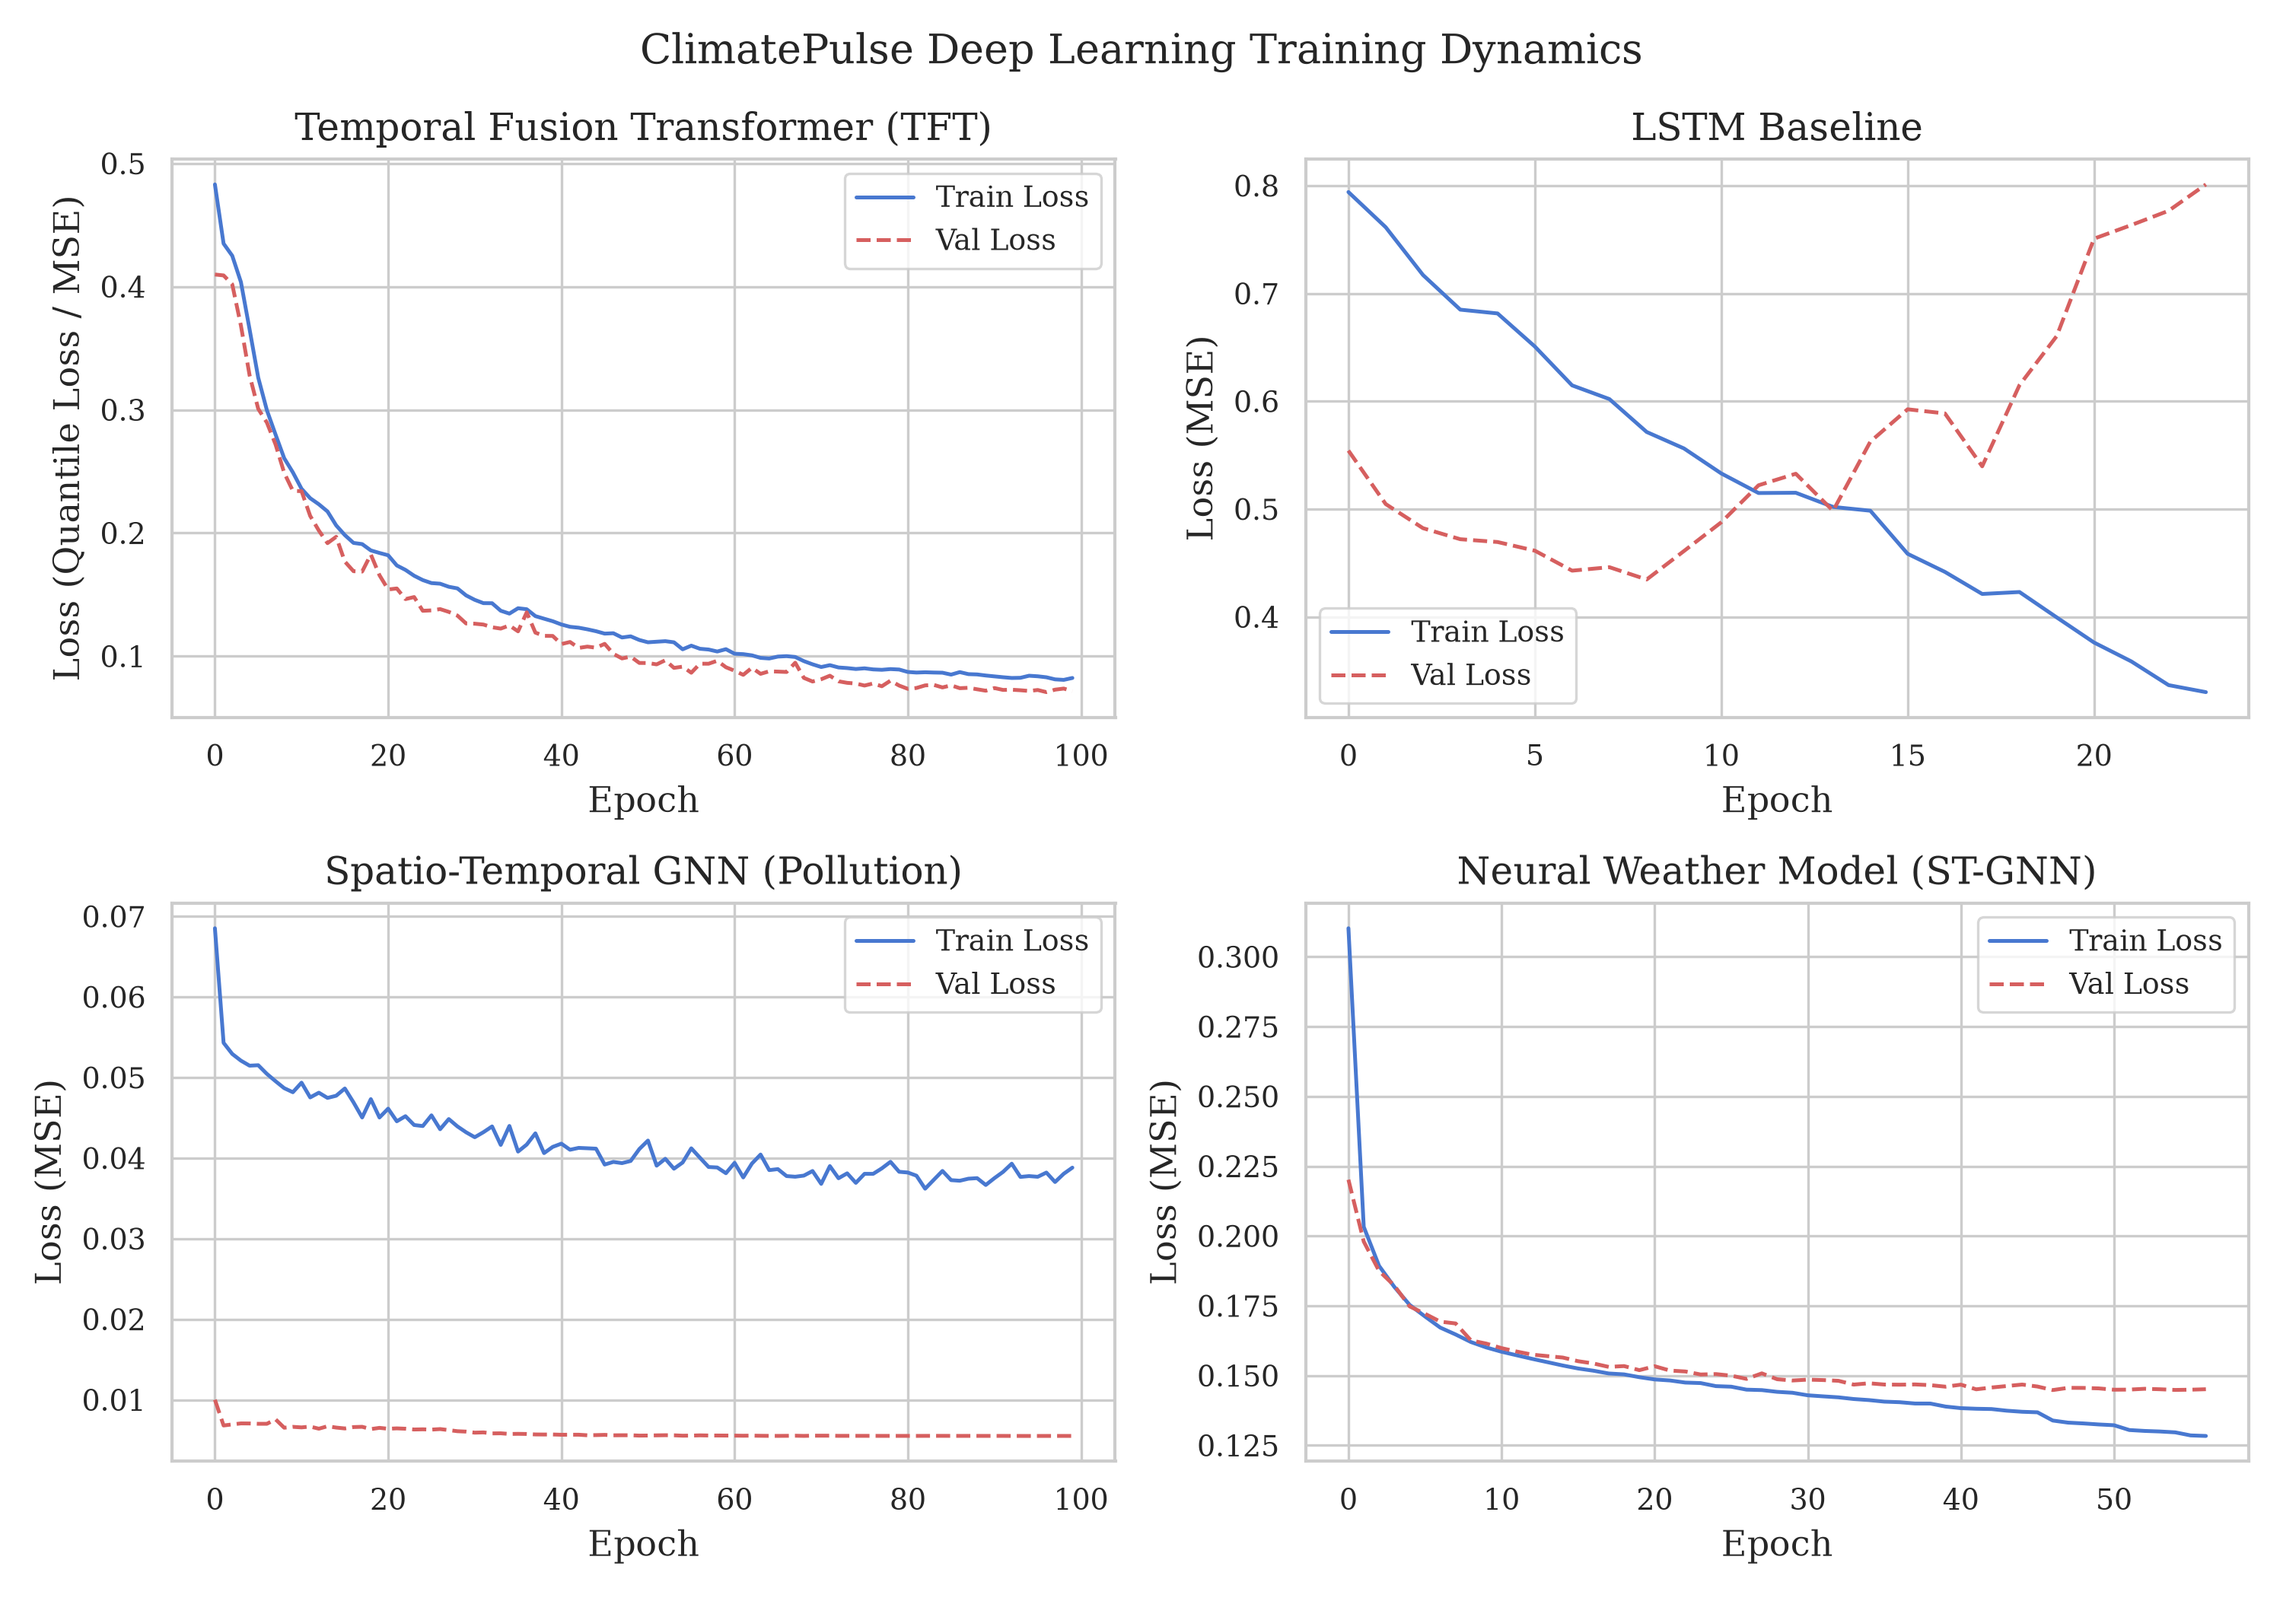
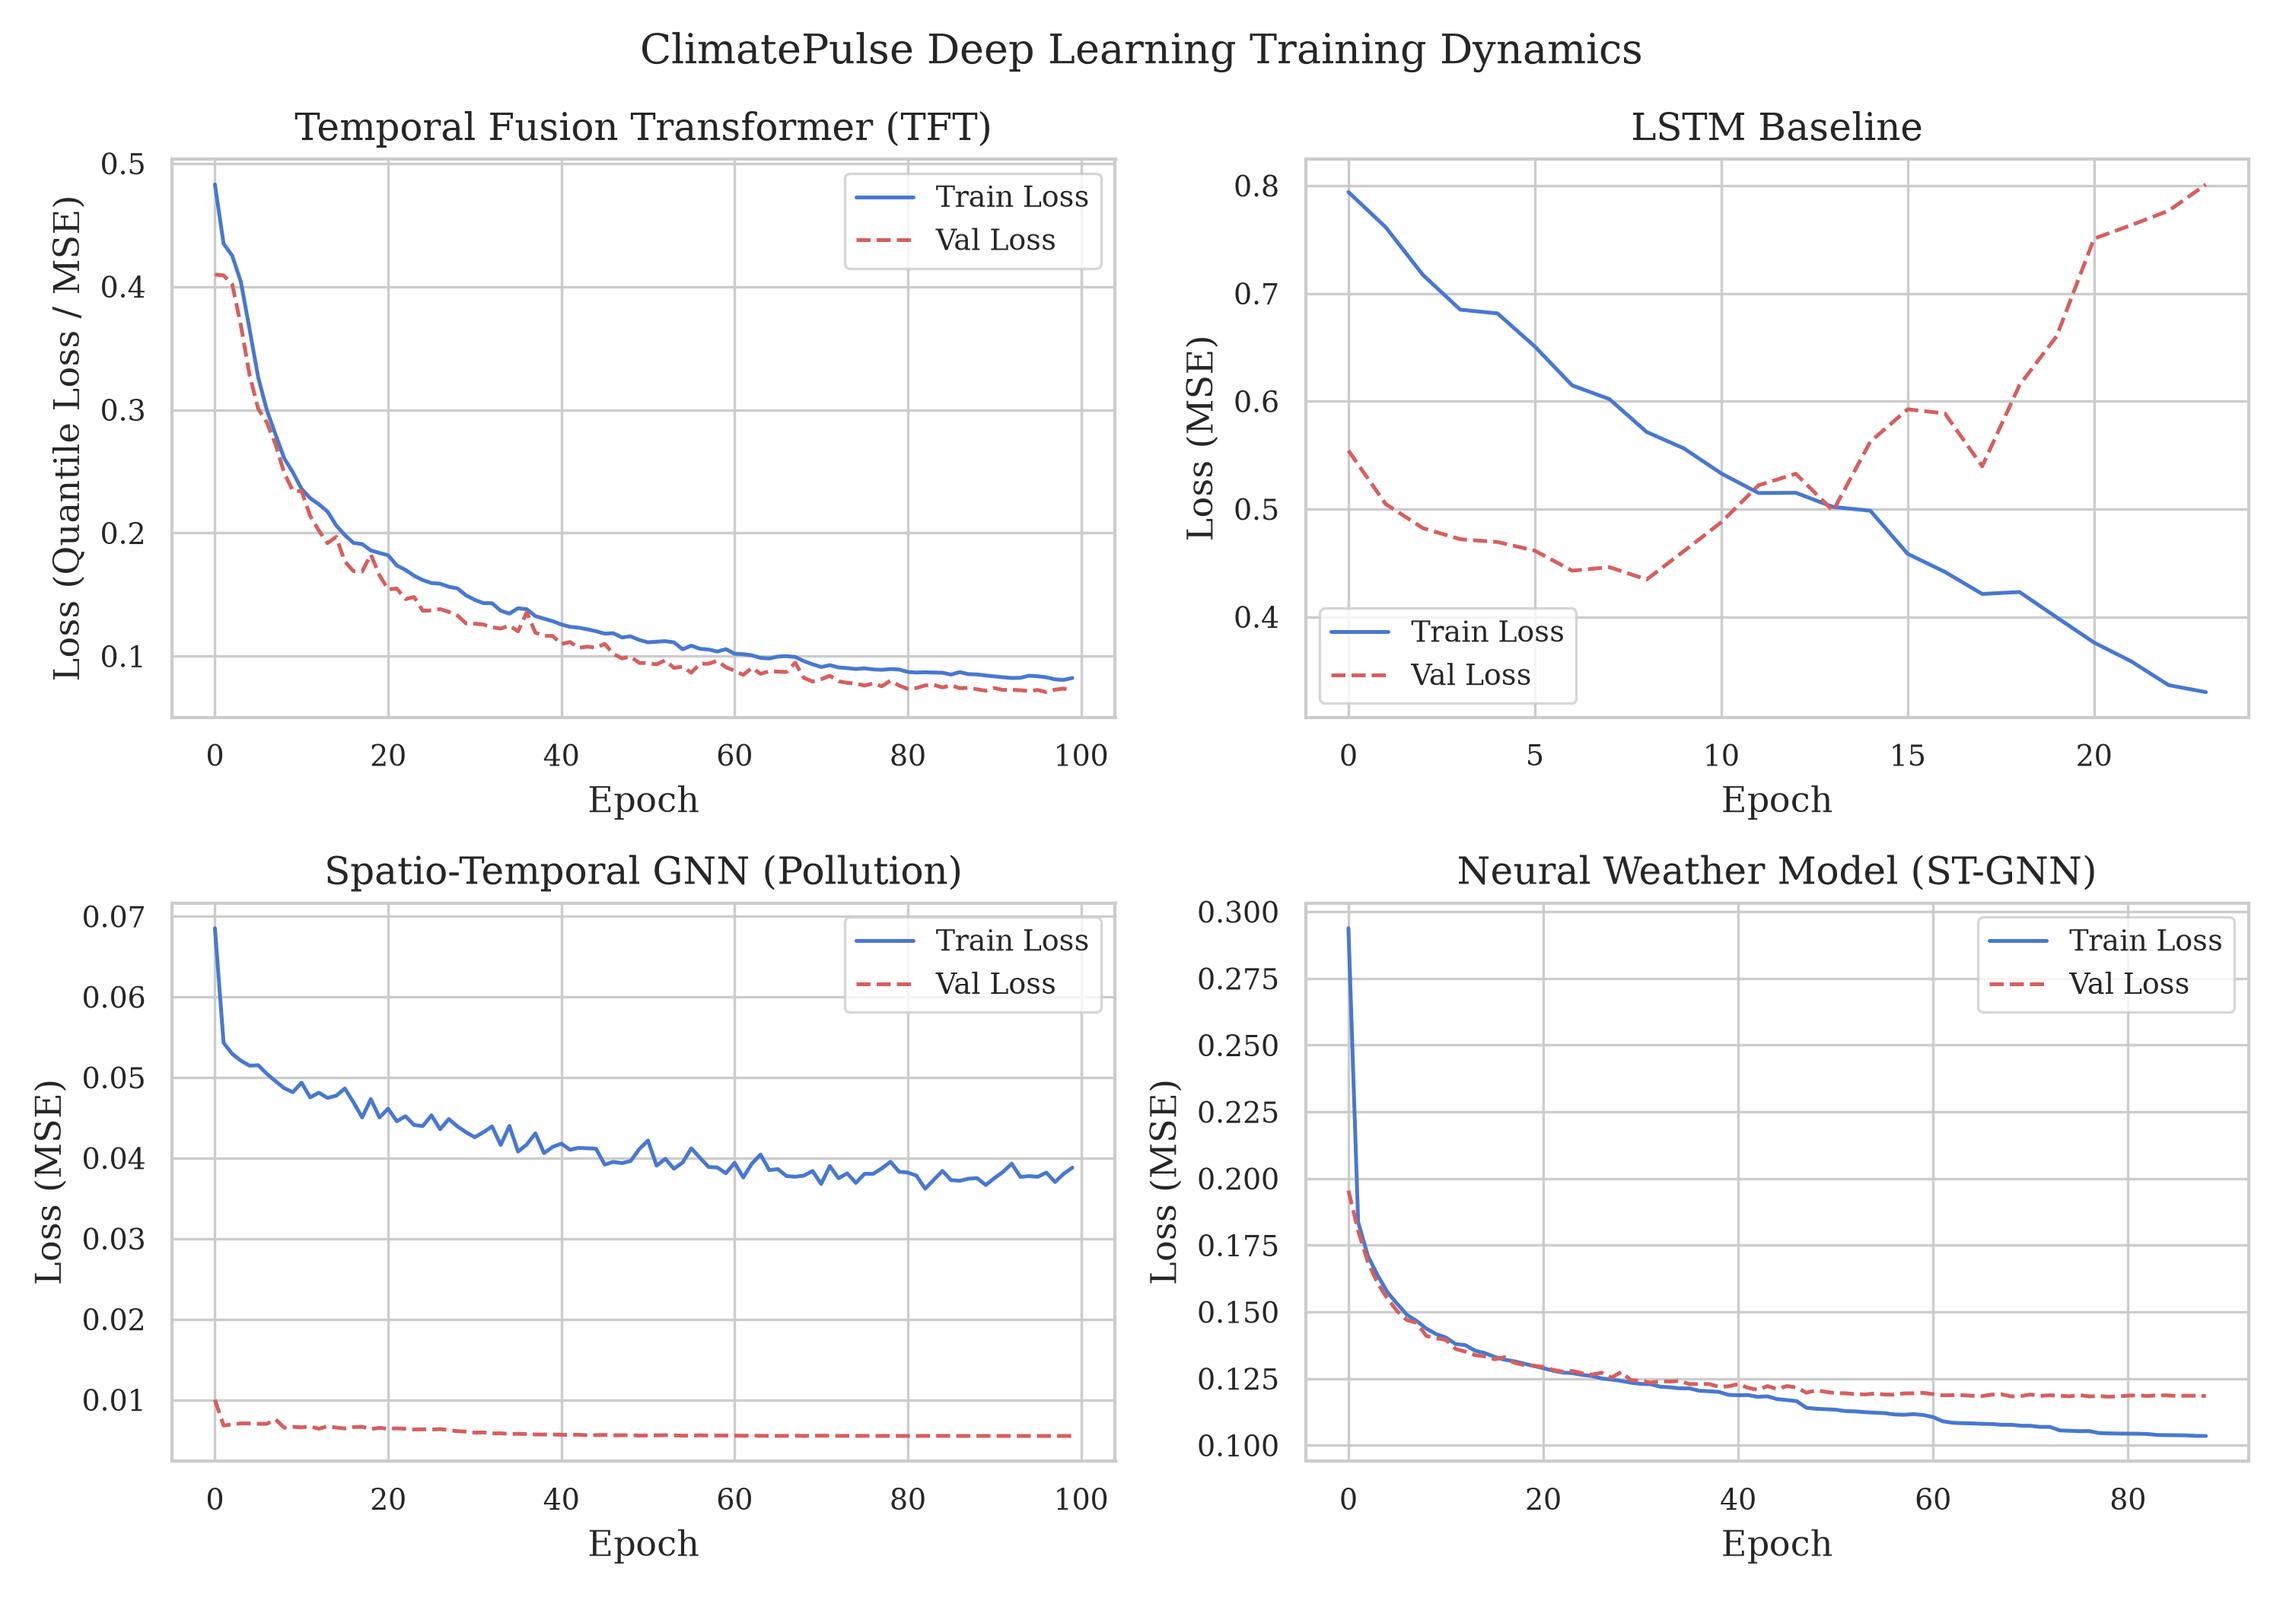
Adding updated artifacts.

diff --git a/runtime/eval_artifacts/metrics_summary.md b/runtime/eval_artifacts/metrics_summary.md
@@ -32,8 +32,8 @@ This document summarizes the performance metrics generated during the evaluation
 
 | Metric | Value (MSE) |
 | :--- | :---: |
-| **Best Validation Loss** | 0.1448 |
-| **Final Training Loss** | 0.1284 |
+| **Best Validation Loss** | 0.1182 |
+| **Final Training Loss** | 0.1035 |
 
 ---
 
